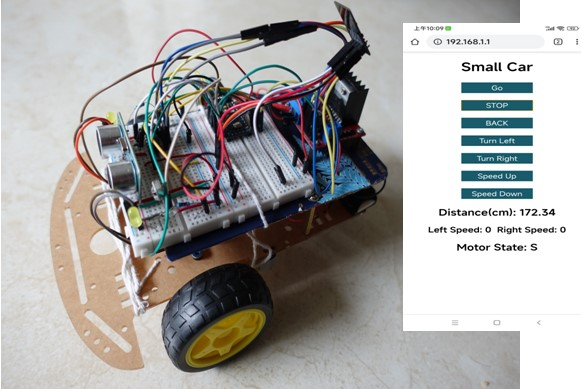
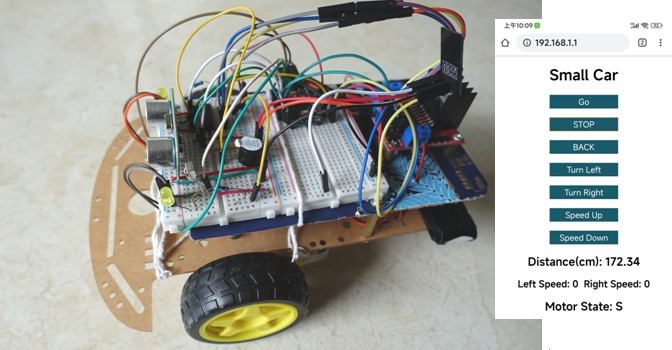
+buzzer

diff --git a/README.md b/README.md
@@ -10,13 +10,14 @@ The Small Car can be controlled with infrared and WIFI.
 * Ultrasonic Sensor：HC-SR04 x1   
 * Motor Drive：L298N x1
 * IR Receiver： VS1838B x1
-* LED: 5mm Yellow x2
-* Resistor: 220Ω x2
 * Speed Detection 
   * Encoder Wheel x2
   * H206 Optical Interrupter Sensor x2
+* LED: 5mm Yellow x2
+* Resistor: 220Ω x2
+* Buzzer(active) x1*
 * 2WD Chassis x1 
-* Power: 7.4V  800mAh Lithium Battery x1
+* Power: 7.4V 800mAh Lithium Battery x1
 * Mini Breadboard x2
 * Connecting Wires and Jumper Wires
 
